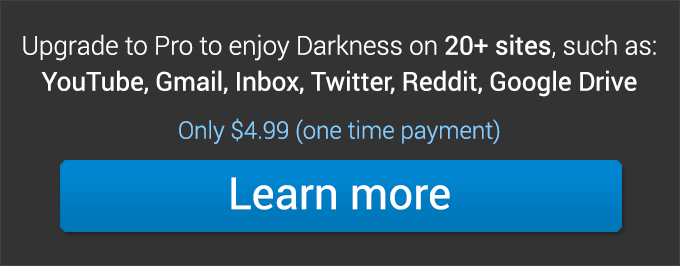
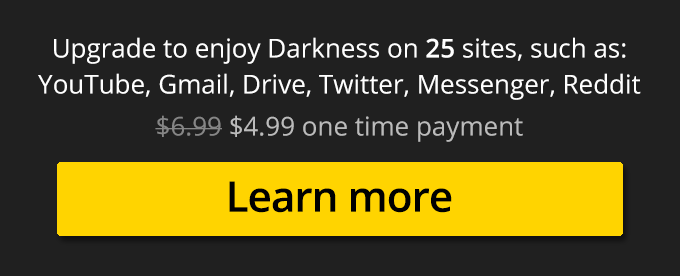
Darkness Redesign - continued

diff --git a/chrome-extension/style/settings.scss b/chrome-extension/style/settings.scss
@@ -7,8 +7,8 @@ $darkness-z-index-base: 2147400000;
 // PALETTE AND CONFIGURATION
 //----------------------------------------------------------------------------------------------------------------------------------------------------
 $darkness-background: #202020;
-$darkness-text: #eee;
-$darkness-text-bright: #fff;
+$darkness-text: #eeeeee;
+$darkness-text-bright: #ffffff;
 $darkness-footer-text: #757575;
 $darkness-yellow: #ffd400;
 $darkness-blue: #86cdff;
@@ -109,7 +109,7 @@ a.drk_icon {
 
 	&.drk_icon_close {
 		i {
-			color: #ccc !important;
+			color: #888 !important;
 			transition: all .1s ease-in-out !important;
 		}
 		&:hover {
@@ -452,7 +452,7 @@ div.drk_settings {
 	-webkit-user-select: none !important;
 	text-rendering: auto !important;
 	cursor: default !important;
-	box-shadow: 0 0 40px 0 rgba(0, 0, 0, 1), -1px 1px 4px 0 rgba(0, 0, 0, 0.9) !important;
+	box-shadow: 0 0 40px 0 rgba(0, 0, 0, 0.5), -1px 1px 4px 0 rgba(0, 0, 0, 0.3) !important;
 	border-radius: 3px 0 3px 3px !important;
 	background: $darkness-background !important;
 	color: $darkness-text !important;
@@ -467,27 +467,35 @@ div.drk_settings {
 		border-radius: 3px 0 0 0 !important;
 		color: White !important;
 		margin-bottom: 2px !important;
+		height: 41px !important;
 		div.drk_app_icon {
 			position: absolute !important;
-			top: 7px !important;
+			top: 9px !important;
 			left: 8px !important;
 			width: 24px !important;
 			height: 24px !important;
 			background: Transparent url("chrome-extension://__MSG_@@extension_id__/images/darkness-icon-48px.png") no-repeat center !important;
 			background-size: cover !important;
 		}
-		div.drk_app_name {
-			margin: 0 20px !important;
-			padding: 10px !important;
-			font-weight: 400 !important;
-			text-align: center !important;
-			font-size: 17px !important;
-			letter-spacing: 0.13px !important;
-			color: white !important;
+		div.drk_app_logo {
+			position: absolute !important;
+			top: 10px !important;
+			left: 37px !important;
+			width: 200px !important;
+			height: 20px !important;			
+			background-image: url("chrome-extension://__MSG_@@extension_id__/images/darkness-logo.svg") !important;
+			background-size: 100% 100% !important;
+			&[data-version="dev"] {
+				background-image: url("chrome-extension://__MSG_@@extension_id__/images/darkness-logo-dev.svg") !important;
+			}
+			&[data-version="pro"] {
+				background-image: url("chrome-extension://__MSG_@@extension_id__/images/darkness-logo-pro.svg") !important;
+			}
 		}
 		span.drk_close {
 			float: right !important;
 			font-size: 14px !important;
+			margin: 2px !important;
 			padding: 11px 8px !important;
 			cursor: pointer !important;
 			opacity: 0.6 !important;
@@ -571,12 +579,12 @@ div.drk_settings {
 }
 
 div.drk_settings section.drk_section_pro {
-	height: 133px !important;
-	padding: 0 0 10px 0 !important;
-	opacity: 0.9 !important;
+	height: 138px !important;
+	padding: 0 !important;
+	filter: contrast(1) brightness(1) !important;
 	border-bottom: solid 1px rgba(255, 255, 255, 0.1) !important;
 	cursor: pointer !important;
-	transition: opacity 0.2s ease-in-out !important;
+	transition: filter 0.2s ease-in-out !important;
 }
 
 div.drk_settings section.drk_section_pro.sku-1 {
@@ -589,9 +597,9 @@ div.drk_settings section.drk_section_pro.sku-2 {
 	background-size: contain !important;
 }
 
-div.drk_settings section.drk_section_pro:hover {
-	opacity: 1.0 !important;
-	transition: opacity 0.1s ease-in-out !important;
+div.drk_settings section.drk_section_pro:hover { 
+	filter: contrast(0.95) brightness(1.06) !important;
+	transition: filter 0.1s ease-in-out !important;
 }
 
 div.drk_share_placeholder {

diff --git a/chrome-extension/js/background/helpers.js b/chrome-extension/js/background/helpers.js
@@ -1,15 +1,16 @@
 //----------------------------------------------------------------------------------------------------------------------------------------------------
 // Set the environment
 //----------------------------------------------------------------------------------------------------------------------------------------------------
-var ENVIRONMENT = 'development';
+const DEFAULT_LOCAL_ENVIRONMENT = 'development';
+var ENVIRONMENT = DEFAULT_LOCAL_ENVIRONMENT;
 
 // Important - don't touch this:
 if (chrome.runtime.id == 'imilbobhamcfahccagbncamhpnbkaenm') ENVIRONMENT = 'production'; // Chrome Web Store version
 if (chrome.runtime.id == 'darkness@darkness.app') ENVIRONMENT = 'production'; // Firefox Add-on Store version
 
 // Development version
-if (chrome.runtime.id == 'koobfbhnpdijhobcdllfkmlgngbpgjep') ENVIRONMENT = 'development';
-if (chrome.runtime.id == 'development@darkness.app') ENVIRONMENT = 'development';
+if (chrome.runtime.id == 'koobfbhnpdijhobcdllfkmlgngbpgjep') ENVIRONMENT = DEFAULT_LOCAL_ENVIRONMENT;
+if (chrome.runtime.id == 'development@darkness.app') ENVIRONMENT = DEFAULT_LOCAL_ENVIRONMENT;
 
 // Staging (local testing before depoyment to stores)
 if (chrome.runtime.id == 'blbbhmfjigkmkkobabbgppbhaaeehfjn') ENVIRONMENT = 'staging';

diff --git a/chrome-extension/js/settings.js b/chrome-extension/js/settings.js
@@ -181,7 +181,9 @@ if (!DarknessSettingsLoader) {
 
 			// Hide upgrade dialog, and show "waiting" dialog instead
 			$('.drk_get_pro.sku-'+SKU).removeClass('visible');
-			$('.drk_pay_waiting').addClass('visible');
+			setTimeout(function() {
+				$('.drk_pay_waiting').addClass('visible');
+			}, 500);			
 
 			// Submit the form
 			$("#drk_paypal_form").trigger("submit");
@@ -502,11 +504,11 @@ if (!DarknessSettingsLoader) {
 
 		// Fill and initialize all the elements of the settings panel
 		var initializeSettingsPanelInterfaceElements = function() {
-			var title = 'Darkness';
-			if (ENVIRONMENT == 'development') title = 'Darkness Developer Edition';
-			else if (ENVIRONMENT == 'staging') title = 'Darkness' + (ASSETS.TYPE == 'p' ? ' Pro' : '') + '*';
-			else if (ENVIRONMENT == 'production') title = 'Darkness' + (ASSETS.TYPE == 'p' ? ' Pro' : '');
-			$('.drk_app_name').html(title);
+			var ver = 'regular';
+			if (ENVIRONMENT == 'development') ver = 'dev';
+			else ver = (ASSETS.TYPE == 'p' ? 'pro' : 'regular');
+			$('.drk_app_logo').attr('data-version', ver);
+
 			$('.drk_settings .sku_replace').addClass('sku-'+SKU).removeClass('sku_replace');
 			if (ENVIRONMENT == 'development')  { 
 				// Darkness Development Edition users:

diff --git a/chrome-extension/html/settings.html b/chrome-extension/html/settings.html
@@ -5,7 +5,7 @@
 	<div class="drk_settings">
 		<div class="drk_toolbar">
 			<span class="drk_close"><a class="drk_icon drk_icon_close" href="javascript:void(0);"><i class="drk_icon icon-cancel"></i></a></span>
-			<div class="drk_app_name">Darkness</div>
+			<div class="drk_app_logo"></div>
 			<div class="drk_app_icon"></div>
 		</div>
 		<section class="drk_section drk_section_pro sku_replace drk_upgrade_btn"></section>
